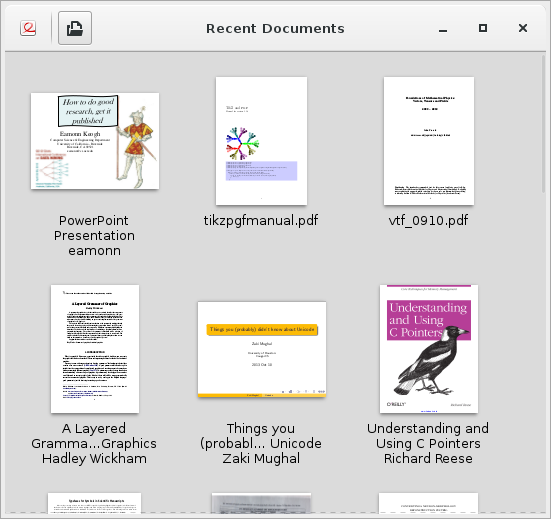
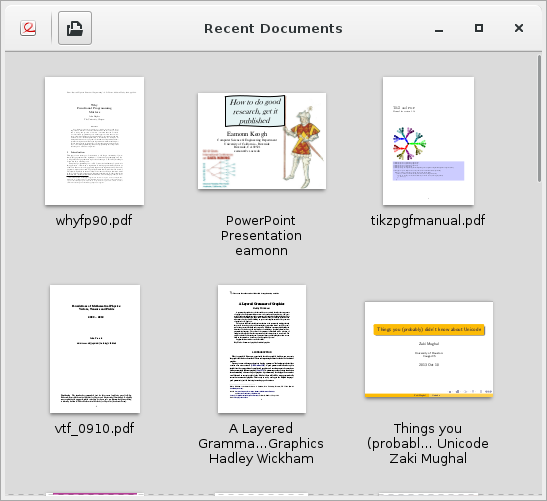
Publishing site on 2016-02-12 16:55:56 from commit 0e5f902 - Add feature section with recent-documents feature

diff --git a/recentchanges/index.html b/recentchanges/index.html
@@ -96,17 +96,17 @@ RecentChanges
 
 
 
-<div id="change-af437d79c9eadcca49e8af64a31886420c9774ba" class="metadata">
+<div id="change-0e5f902774920fc679493633420e2da6e701bb39" class="metadata">
 <span class="desc"><br />Changed pages:</span>
 <span class="pagelinks">
 
-<a href="https://github.com/project-renard/project-renard.github.io/commit/af437d79c9eadcca49e8af64a31886420c9774ba" title="diff" rel="nofollow"><img src="../wikiicons/diff.png" alt="diff" /></a>doc/development/feature/recent-documents
+<a href="https://github.com/project-renard/project-renard.github.io/commit/0e5f902774920fc679493633420e2da6e701bb39" title="diff" rel="nofollow"><img src="../wikiicons/diff.png" alt="diff" /></a>doc/development/feature/recent-documents
 
 
-<a href="https://github.com/project-renard/project-renard.github.io/commit/af437d79c9eadcca49e8af64a31886420c9774ba" title="diff" rel="nofollow"><img src="../wikiicons/diff.png" alt="diff" /></a>doc/survey/tool/evince/gfx/recent-documents-resize.png
+<a href="https://github.com/project-renard/project-renard.github.io/commit/0e5f902774920fc679493633420e2da6e701bb39" title="diff" rel="nofollow"><img src="../wikiicons/diff.png" alt="diff" /></a>doc/survey/tool/evince/gfx/recent-documents-resize.png
 
 
-<a href="https://github.com/project-renard/project-renard.github.io/commit/af437d79c9eadcca49e8af64a31886420c9774ba" title="diff" rel="nofollow"><img src="../wikiicons/diff.png" alt="diff" /></a>doc/survey/tool/evince/gfx/recent-documents.png
+<a href="https://github.com/project-renard/project-renard.github.io/commit/0e5f902774920fc679493633420e2da6e701bb39" title="diff" rel="nofollow"><img src="../wikiicons/diff.png" alt="diff" /></a>doc/survey/tool/evince/gfx/recent-documents.png
 
 
 </span>
@@ -131,7 +131,7 @@ Add feature section with recent-documents feature<br />
 
 </div>
 
-<!-- af437d79c9eadcca49e8af64a31886420c9774ba -->
+<!-- 0e5f902774920fc679493633420e2da6e701bb39 -->
 
 
 

diff --git a/doc/development/feature/recent-documents/index.html b/doc/development/feature/recent-documents/index.html
@@ -93,7 +93,7 @@ recent documents along with their embedded PDF title metadata or filename if
 the metadata is not available. The number of documents shown on a single screen
 depends on the window size.</p>
 
-<p><a href="../../../survey/tool/evince/gfx/recent-documents.png"><img src="../../../survey/tool/evince/gfx/recent-documents.png" width="551" height="519" class="img" /></a>
+<p><a href="../../../survey/tool/evince/gfx/recent-documents.png"><img src="../../../survey/tool/evince/gfx/recent-documents.png" width="547" height="501" class="img" /></a>
 <a href="../../../survey/tool/evince/gfx/recent-documents-resize.png"><img src="../../../survey/tool/evince/gfx/recent-documents-resize.png" width="705" height="274" class="img" /></a></p>
 
 </div>

diff --git a/doc/development/feature/index.html b/doc/development/feature/index.html
@@ -111,8 +111,8 @@ feature
 
 
 <div class="pagedate">
-Last edited <span class="date">Fri 12 Feb 2016 04:23:40 PM UTC</span>
-<!-- Created <span class="date">Fri 12 Feb 2016 04:23:40 PM UTC</span> -->
+Last edited <span class="date">Fri 12 Feb 2016 04:55:57 PM UTC</span>
+<!-- Created <span class="date">Fri 12 Feb 2016 04:55:57 PM UTC</span> -->
 </div>
 
 </div>

diff --git a/tag/software-type/document-viewer/index.html b/tag/software-type/document-viewer/index.html
@@ -131,8 +131,8 @@ Links:
 
 
 <div class="pagedate">
-Last edited <span class="date">Fri 12 Feb 2016 04:23:40 PM UTC</span>
-<!-- Created <span class="date">Fri 12 Feb 2016 04:23:40 PM UTC</span> -->
+Last edited <span class="date">Fri 12 Feb 2016 04:55:57 PM UTC</span>
+<!-- Created <span class="date">Fri 12 Feb 2016 04:55:57 PM UTC</span> -->
 </div>
 
 </div>

diff --git a/doc/survey/tool/evince/gfx/index.html b/doc/survey/tool/evince/gfx/index.html
@@ -117,8 +117,8 @@ gfx
 
 
 <div class="pagedate">
-Last edited <span class="date">Fri 12 Feb 2016 04:23:40 PM UTC</span>
-<!-- Created <span class="date">Fri 12 Feb 2016 04:23:40 PM UTC</span> -->
+Last edited <span class="date">Fri 12 Feb 2016 04:55:57 PM UTC</span>
+<!-- Created <span class="date">Fri 12 Feb 2016 04:55:57 PM UTC</span> -->
 </div>
 
 </div>
